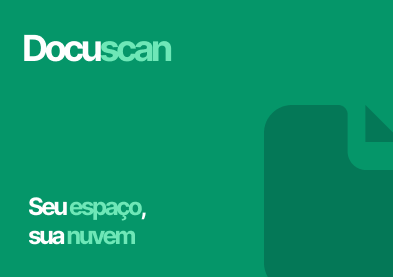
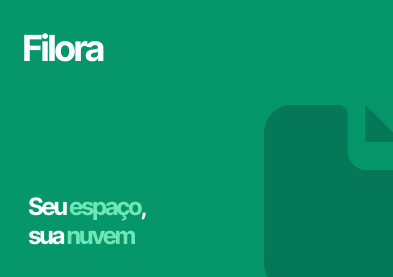
feat: rename the app to filora (#19)

Changed region(s): [[0.0611, 0.1155, 0.458, 0.231]]

diff --git a/app.config.ts b/app.config.ts
@@ -2,8 +2,8 @@ import { ConfigContext, ExpoConfig } from "expo/config";
 import "tsx/cjs";
 
 export default ({ config }: ConfigContext): ExpoConfig => ({
-  name: "DocuScanApp",
-  slug: "DocuScanApp",
+  name: "Filora",
+  slug: "filora",
   version: "1.0.0",
   orientation: "portrait",
   icon: "./assets/icon.png",
@@ -16,7 +16,7 @@ export default ({ config }: ConfigContext): ExpoConfig => ({
   },
   ios: {
     supportsTablet: true,
-    bundleIdentifier: "com.gabrielcaamargo.DocuScanApp",
+    bundleIdentifier: "com.gabrielcaamargo.filora",
     googleServicesFile: "./GoogleService-Info.plist",
   },
   android: {
@@ -25,7 +25,7 @@ export default ({ config }: ConfigContext): ExpoConfig => ({
       backgroundColor: "#ffffff",
     },
     edgeToEdgeEnabled: true,
-    package: "com.gabrielcaamargo.DocuScanApp",
+    package: "com.gabrielcaamargo.filora",
     googleServicesFile: "./google-services.json",
   },
   web: {

diff --git a/src/domain/Auth/useCases/useSignupWithEmailAndPasswordUseCase.ts b/src/domain/Auth/useCases/useSignupWithEmailAndPasswordUseCase.ts
@@ -38,7 +38,7 @@ export function useSignupWithEmailAndPasswordUseCase(
       showToast(
         "success",
         "Conta criada com sucesso",
-        "Você agora pode aproveitar o DocuScan"
+        "Você agora pode aproveitar o Filora"
       );
       options.onSuccess?.(data);
     },
